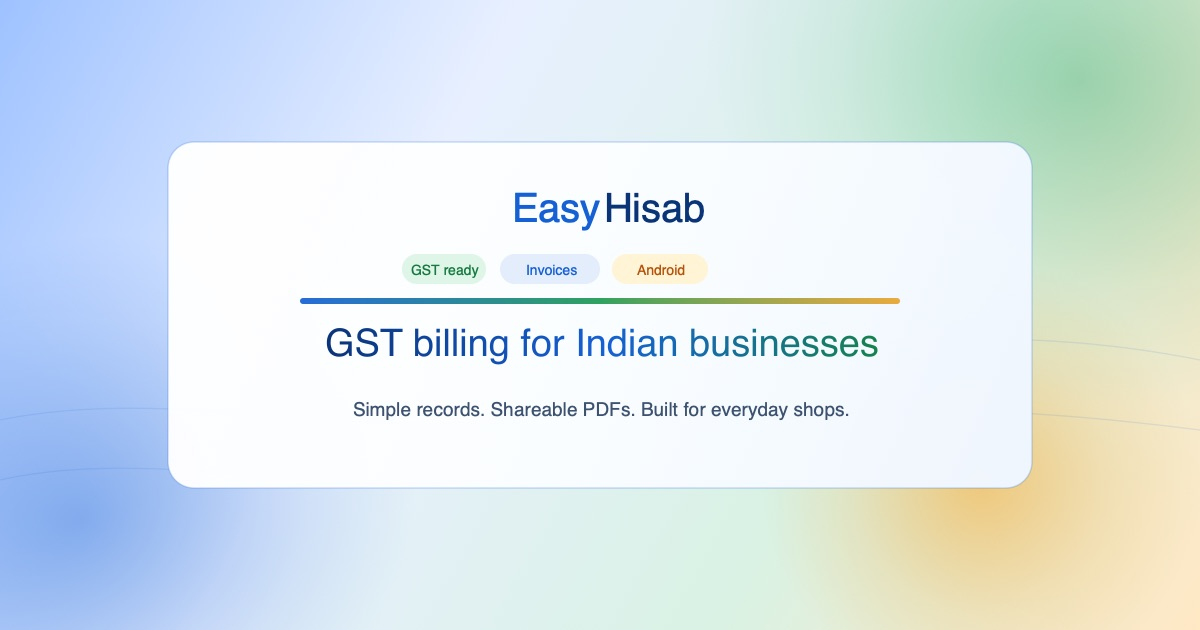
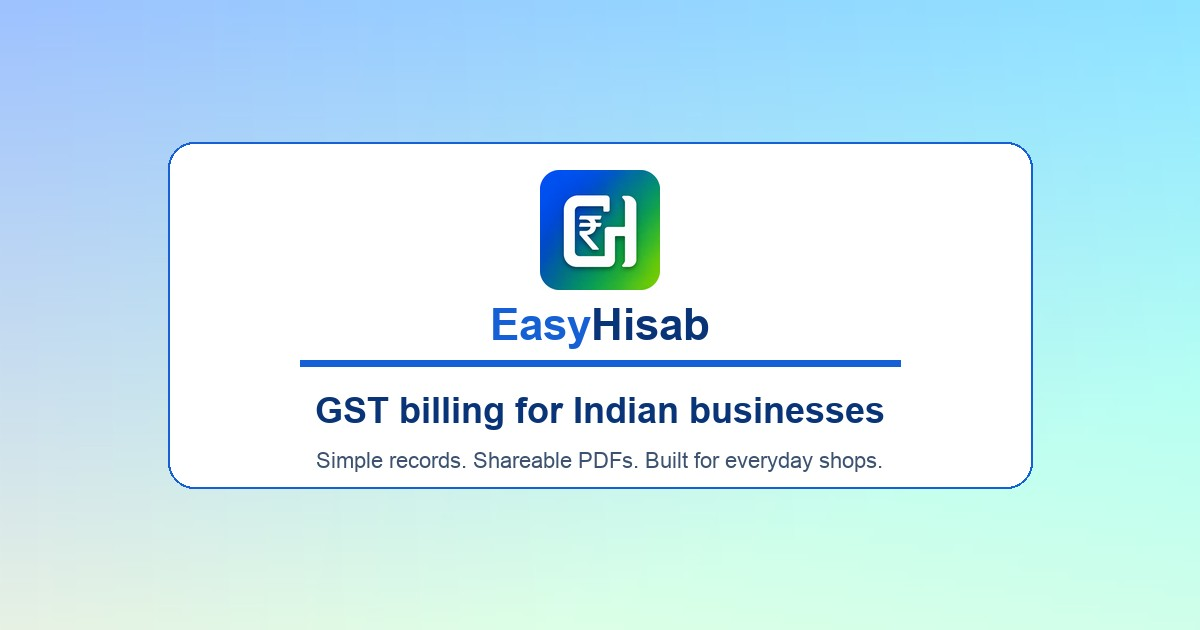
chore(site): sync all brand assets with mobile app mark
Use playstore icon for header brand-mark, lockups, and OG share image across
all marketing pages while keeping favicons for browser tabs.

diff --git a/delete-account/index.html b/delete-account/index.html
@@ -47,7 +47,7 @@
         <div class="topbar-row">
           <a class="brand" href="../">
             <span class="brand-mark">
-              <img src="../assets/favicon.png" alt="EasyHisab mark">
+              <img src="../assets/brand-mark.png" alt="EasyHisab mark">
             </span>
             <span class="brand-name" aria-label="EasyHisab">
               <span class="brand-easy">Easy</span><span class="brand-hisab">Hisab</span>

diff --git a/privacy-policy/index.html b/privacy-policy/index.html
@@ -47,7 +47,7 @@
         <div class="topbar-row">
           <a class="brand" href="../">
             <span class="brand-mark">
-              <img src="../assets/favicon.png" alt="EasyHisab mark">
+              <img src="../assets/brand-mark.png" alt="EasyHisab mark">
             </span>
             <span class="brand-name" aria-label="EasyHisab">
               <span class="brand-easy">Easy</span><span class="brand-hisab">Hisab</span>

diff --git a/contact/index.html b/contact/index.html
@@ -35,7 +35,7 @@
         <div class="topbar-row">
           <a class="brand" href="../" aria-label="EasyHisab home">
             <span class="brand-mark">
-              <img src="../assets/favicon.png" alt="">
+              <img src="../assets/brand-mark.png" alt="">
             </span>
             <span class="brand-name" aria-hidden="true">
               <span class="brand-easy">Easy</span><span class="brand-hisab">Hisab</span>

diff --git a/features/index.html b/features/index.html
@@ -38,7 +38,7 @@
         <div class="topbar-row">
           <a class="brand" href="../" aria-label="EasyHisab home">
             <span class="brand-mark">
-              <img src="../assets/favicon.png" alt="">
+              <img src="../assets/brand-mark.png" alt="">
             </span>
             <span class="brand-name" aria-hidden="true">
               <span class="brand-easy">Easy</span><span class="brand-hisab">Hisab</span>

diff --git a/pricing/index.html b/pricing/index.html
@@ -38,7 +38,7 @@
         <div class="topbar-row">
           <a class="brand" href="../" aria-label="EasyHisab home">
             <span class="brand-mark">
-              <img src="../assets/favicon.png" alt="">
+              <img src="../assets/brand-mark.png" alt="">
             </span>
             <span class="brand-name" aria-hidden="true">
               <span class="brand-easy">Easy</span><span class="brand-hisab">Hisab</span>

diff --git a/web-portal/index.html b/web-portal/index.html
@@ -38,7 +38,7 @@
         <div class="topbar-row">
           <a class="brand" href="../" aria-label="EasyHisab home">
             <span class="brand-mark">
-              <img src="../assets/favicon.png" alt="">
+              <img src="../assets/brand-mark.png" alt="">
             </span>
             <span class="brand-name" aria-hidden="true">
               <span class="brand-easy">Easy</span><span class="brand-hisab">Hisab</span>

diff --git a/index.html b/index.html
@@ -75,7 +75,7 @@
         <div class="topbar-row">
           <a class="brand" href="./" aria-label="EasyHisab home">
             <span class="brand-mark">
-              <img src="assets/favicon.png" alt="">
+              <img src="assets/brand-mark.png" alt="">
             </span>
             <span class="brand-name" aria-hidden="true">
               <span class="brand-easy">Easy</span><span class="brand-hisab">Hisab</span>

diff --git a/styles.css b/styles.css
@@ -210,7 +210,7 @@ button:focus-visible {
 .brand-mark img {
   width: 100%;
   height: 100%;
-  object-fit: contain;
+  object-fit: cover;
 }
 
 .brand-name {
